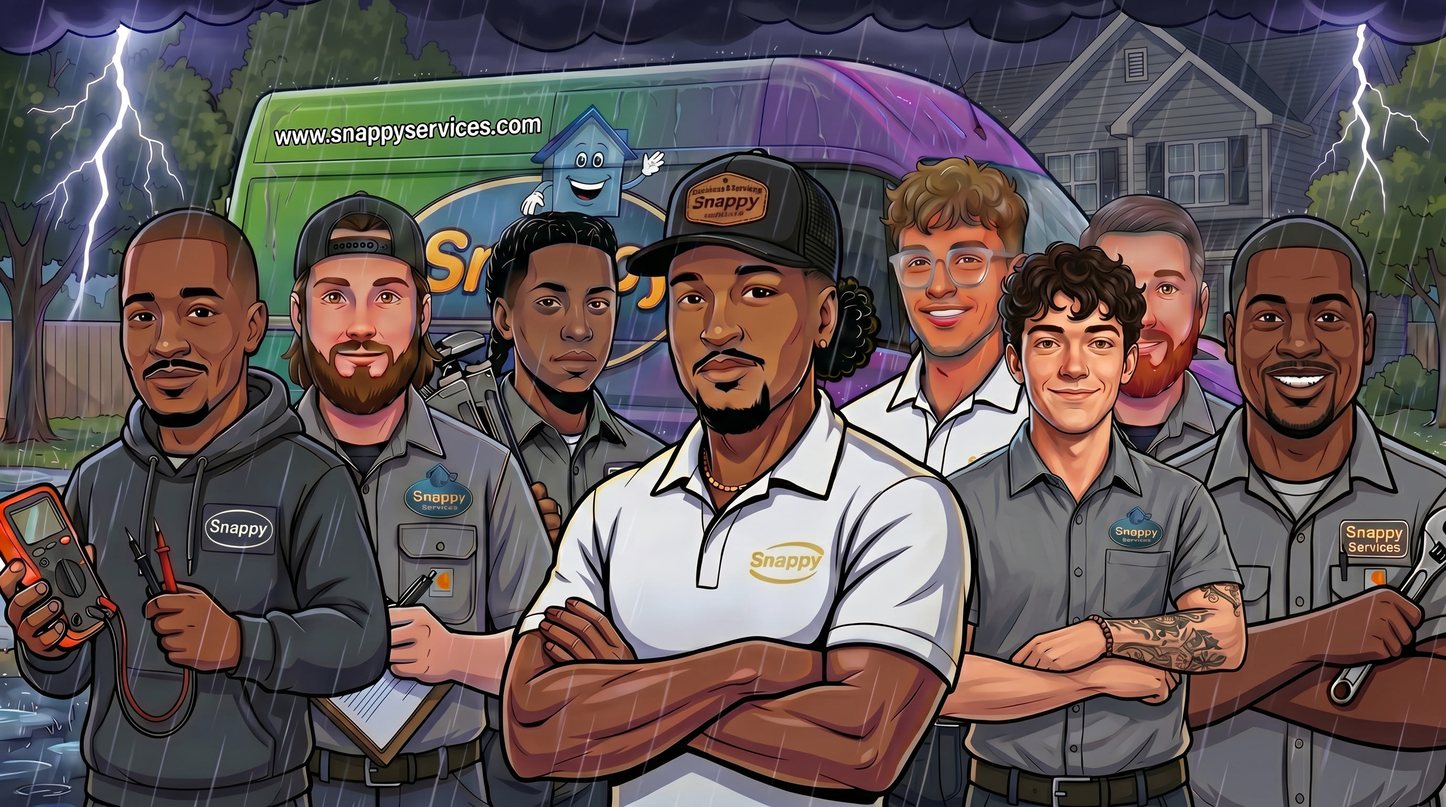
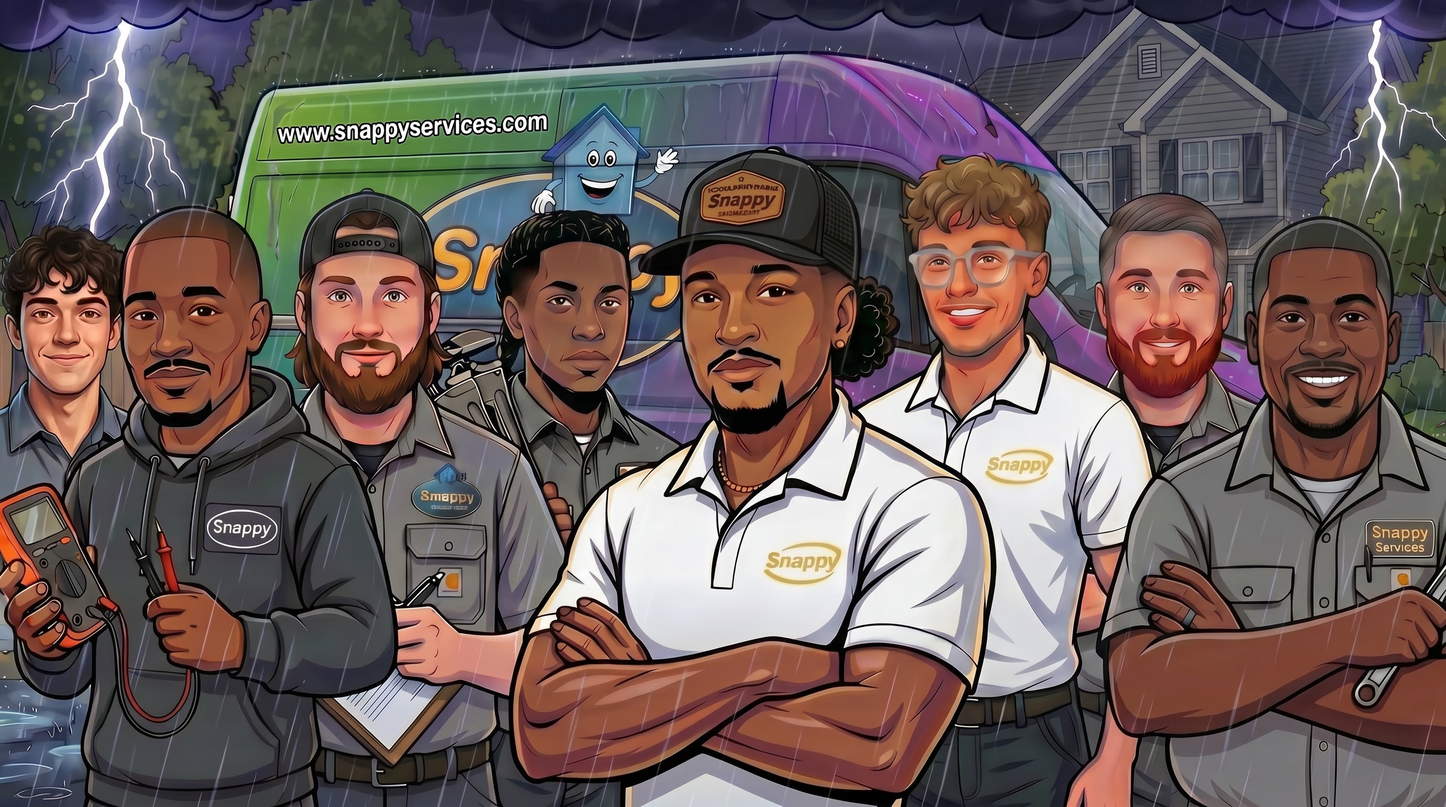
v187 — Storm team photo regenerated with Nick on far left edge (matches regular team photo placement, no longer covering Chris)

diff --git a/index.html b/index.html
@@ -22,13 +22,13 @@
   <link href="https://fonts.googleapis.com/css2?family=DM+Sans:ital,opsz,wght@0,9..40,300;0,9..40,400;0,9..40,500;0,9..40,600;0,9..40,700;1,9..40,400&family=JetBrains+Mono:wght@400;500&family=Orbitron:wght@400;500;600;700;800;900&display=swap" rel="stylesheet">
   <script src="https://cdn.jsdelivr.net/npm/chart.js@4.4.4/dist/chart.umd.min.js"></script>
 
-  <link rel="stylesheet" href="styles.css?v=20260424v186">
+  <link rel="stylesheet" href="styles.css?v=20260424v187">
 </head>
 <body>
-  <!-- v186: Intro splash video (click anywhere to skip) — replaced with team movie 4/29/26 -->
+  <!-- v187: Intro splash video (click anywhere to skip) — replaced with team movie 4/29/26 -->
   <div id="introSplash" class="intro-splash" role="dialog" aria-label="Snappy team intro">
     <video id="introSplashVideo" class="intro-splash-video" playsinline autoplay muted preload="auto">
-      <source src="snappy_team_intro_v186.mp4" type="video/mp4">
+      <source src="snappy_team_intro_v187.mp4" type="video/mp4">
     </video>
     <button type="button" id="introSkipBtn" class="intro-skip-btn" aria-label="Skip intro">Skip ×</button>
     <button type="button" id="introSoundBtn" class="intro-sound-btn" aria-label="Unmute">🔇 Tap for sound</button>
@@ -36,7 +36,7 @@
   </div>
 
   <!-- Version Badge (top-left, always visible) -->
-  <div id="appVersionBadge" class="app-version-badge" title="App version">v186</div>
+  <div id="appVersionBadge" class="app-version-badge" title="App version">v187</div>
 
   <!-- Background Grid Effect -->
   <div class="bg-grid-effect"></div>
@@ -78,7 +78,7 @@
       </div>
       <div class="header-right">
         <span class="badge">6 Technicians</span>
-        <span class="badge badge-date">Updated 4/29/2026 &middot; v186</span>
+        <span class="badge badge-date">Updated 4/29/2026 &middot; v187</span>
         <button class="share-matrix-btn" onclick="shareMatrix()" title="Share Matrix"><svg viewBox="0 0 24 24" width="16" height="16" fill="none" stroke="currentColor" stroke-width="2"><circle cx="18" cy="5" r="3"/><circle cx="6" cy="12" r="3"/><circle cx="18" cy="19" r="3"/><line x1="8.59" y1="13.51" x2="15.42" y2="17.49"/><line x1="15.41" y1="6.51" x2="8.59" y2="10.49"/></svg> Share</button>
         <button id="syncNowBtn" class="sync-now-btn mgr-only" onclick="manualSync()" title="Sync Now">&#x1f504;</button>
         <span id="syncStatusIndicator" class="sync-indicator sync-idle mgr-only" onclick="openSyncSetup()" title="Cloud Sync Settings">☁ Cloud</span>
@@ -153,8 +153,8 @@
       <!-- Team Banner (with seasonal toggle) -->
       <div id="teamPhotoCard" class="team-photo-card" data-mode="storm">
         <div class="team-photo-stack">
-          <img loading="lazy" decoding="async" class="team-photo team-photo-original" src="snappy_team.jpg?v=20260428v186" alt="Snappy Services Team">
-          <img loading="lazy" decoding="async" class="team-photo team-photo-storm" src="snappy_team_storm.jpg?v=20260429v186" alt="Snappy Services Team — Storm Season">
+          <img loading="lazy" decoding="async" class="team-photo team-photo-original" src="snappy_team.jpg?v=20260428v187" alt="Snappy Services Team">
+          <img loading="lazy" decoding="async" class="team-photo team-photo-storm" src="snappy_team_storm.jpg?v=20260429v187" alt="Snappy Services Team — Storm Season">
           <!-- Storm effects overlay (only visible in storm mode) -->
           <div class="team-storm-fx" aria-hidden="true">
             <canvas class="team-rain-canvas"></canvas>
@@ -256,7 +256,7 @@
             <b>Tiebreaker:</b> If two techs tie on total points, the higher service revenue wins the rank.
           </div>
 
-          <!-- v186: How leaderboard points translate to composite score -->
+          <!-- v187: How leaderboard points translate to composite score -->
           <div class="pts-translate">
             <div class="pts-translate-head">
               <span class="pts-translate-icon">⚡</span>
@@ -1447,11 +1447,11 @@ AND 30% of advancement "votes" come from skills progress
     pdfjsLib.GlobalWorkerOptions.workerSrc = 'https://cdnjs.cloudflare.com/ajax/libs/pdf.js/3.11.174/pdf.worker.min.js';
   </script>
   <script src="pdf_data.js?v=20260419v56"></script>
-  <script src="score_pdfs.js?v=20260424v186"></script>
-  <script src="onon_packets.js?v=20260424v186"></script>
-  <script src="app.js?v=20260424v186"></script>
+  <script src="score_pdfs.js?v=20260424v187"></script>
+  <script src="onon_packets.js?v=20260424v187"></script>
+  <script src="app.js?v=20260424v187"></script>
 
-  <!-- v186: Intro splash controller -->
+  <!-- v187: Intro splash controller -->
   <script>
     (function() {
       var splash = document.getElementById('introSplash');
